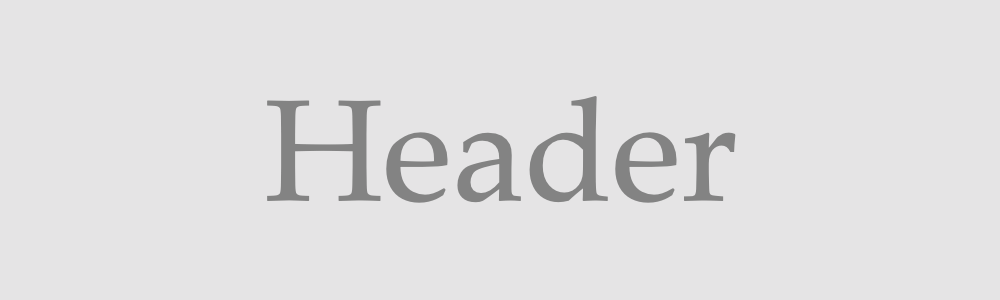
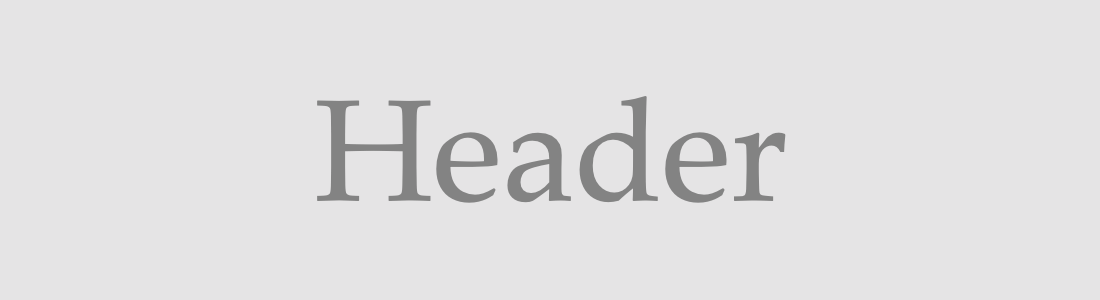
Add files via upload

Changed region(s): [[0.248, 0.33, 0.496, 0.69], [0.527, 0.33, 0.744, 0.69]]

diff --git a/index.html b/index.html
@@ -95,7 +95,7 @@ nav li { display: inline; height: 65px; }
 
 /*========= Double Columns =========*/
 
-.Column-L { display: inline-block; width: calc(100% - 375px - 60px); min-width: 335px; max-width: 560px; }
+.Column-L { display: inline-block; width: calc(100% - 375px - 60px); min-width: 335px; max-width: 660px; }
 
 .Column-L p:first-child { margin-top: 0px; } 
 .Column-L p:last-child { margin-bottom: 0px; }
@@ -119,12 +119,10 @@ video { width: 375px; }
 .Images-group {
     margin: 0 auto;
     width: 100%;
-    max-width: 1000px;
+    max-width: 1060px;
     overflow-x: auto; /* <- Não sei como funciona! */
     white-space: nowrap; /* <- Não sei como funciona! */
 }
-
-.Gallery-type-2 img { display: inline-block; width: 97%;  }
 
 /*============== Table =============*/
 
@@ -146,7 +144,7 @@ td, th { padding: 10px 20px; }
 /*============= footer =============*/
 
 footer { 
-    width: 96%; border: 1px solid white; border-radius: 25px; margin: 0 auto;
+    width: 96.4%; border: 1px solid white; border-radius: 25px; margin: 0 auto;
     background-color: rgb(240, 240, 240); 
     text-align: center; font-size: 0.9rem; }
 

diff --git a/styles/defaults.css b/styles/defaults.css
@@ -6,14 +6,14 @@ h1 { margin: 26px 0; }
 h2 { margin: 24px 0; }
 p { margin: 19px 0; }
 
-html { font-size: 20px; }
-
 /* Definindo o modelo de caixa alternativo p/ todos os elementos: */ 
 html { box-sizing: border-box; } *, *::before, *::after { box-sizing: inherit; }
 
+html { font-size: 20px; }
+
 body { margin: 0 auto; padding: 0px; }
 
-body, .Large { width: 100%; min-width: 375px; max-width: 1000px; /* Padrão: 960-1300px */ }
+body, .Large { width: 100%; min-width: 375px; max-width: 1100px; /* Padrão: 960-1300px */ }
 
 .Hidden { display: none; }
 
